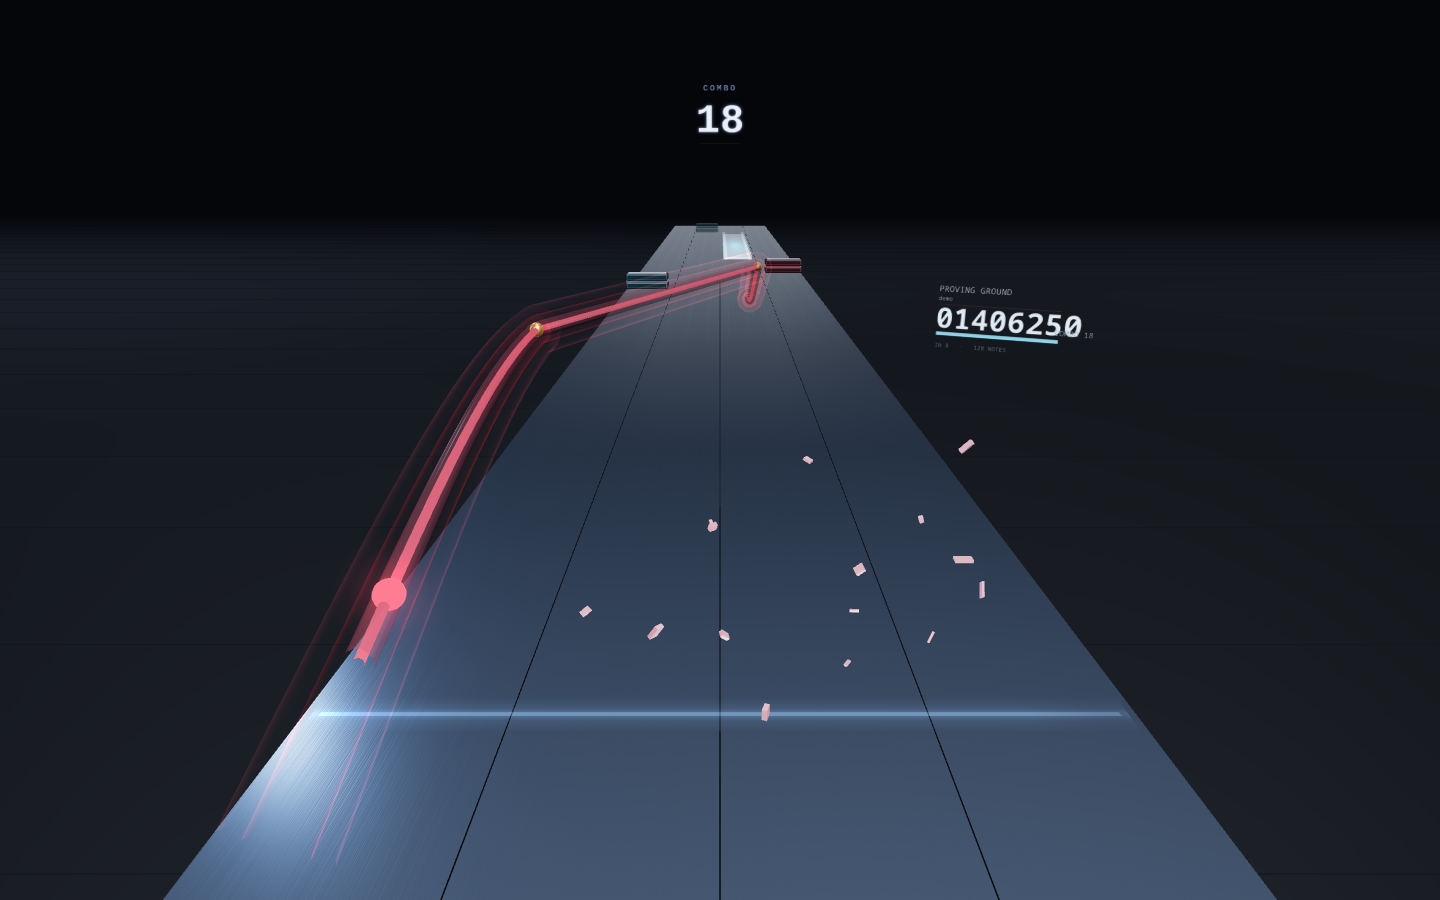
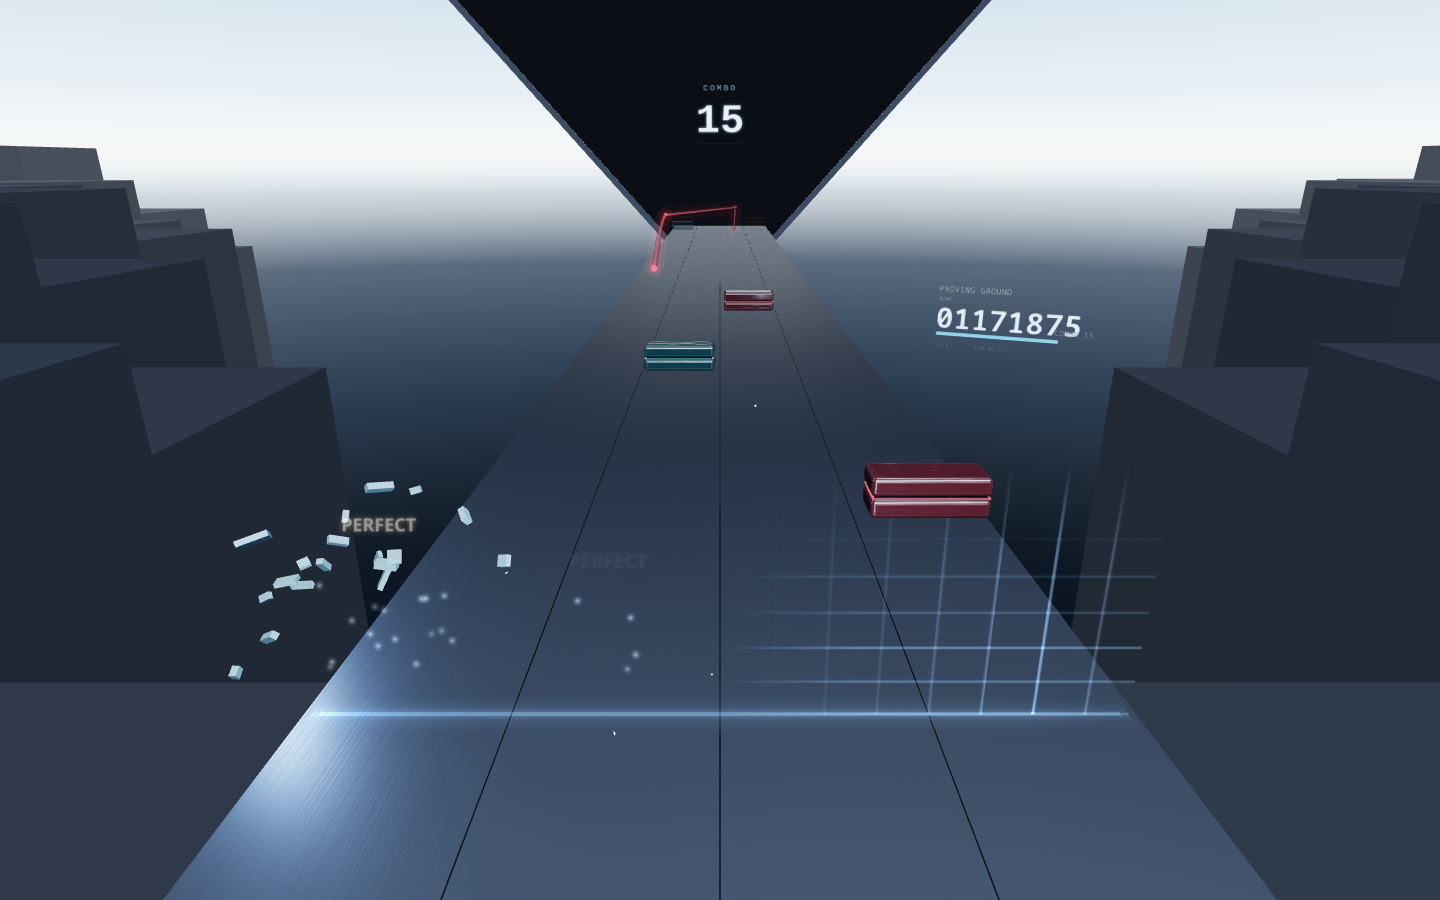
docs(bg): 背景写进 FUTURE，README 换新截图
- FUTURE §0.6 从「待设计」改写为已落地 + 规范草案：没有地面的天空、余光里的台地、
  悬空菱形；glTF 2.0（Blender 内置导出器能带什么 / 带不走什么 / Unity 需要 glTFast）；
  演出走时间线（谱面时间，节点集合封闭）；音频走固定参数通道
- FUTURE §0.7 第 6 项标记完成，剩 scene.json 加载器 / gltf / text / 时间线运行时
- README 截图重拍：游玩 / 主页 / 结算（`?panel=` + `?chrome=0`），文案对齐实际画面；
  顶部导航加 BACKGROUND.md
- prototype/README 文档索引加背景规范；STATUS 记一条 2026-10-25 背景落地

diff --git a/prototype/FUTURE.md b/prototype/FUTURE.md
@@ -169,39 +169,68 @@
 - 不挡 note / arc / 判定线；
 - 命中 / MISS 后立即更新；72fps 不掉。
 
-### 0.6 3D 背景（待设计）
+### 0.6 3D 背景 ✅ 已落地（程序化）+ 规范草案
 
-**状态：还没有设计思路。** 只确定约束和流程，方向本身待定。
+**状态：两个内置预设 `light` / `dark` 已经进游戏和制谱器**；格式（节点 / 时间线 /
+音频参数）是草案，运行时目前只实现了三个 `procedural.*` 节点。
 
-目标：给台面一个真正的空间，让“站在科学仪器前”这件事成立，同时不抢 note、不拖帧。
+实验室：`design/bg-lab/`（Blender）；网页实验台：`prototype/bg-lab.html`；
+格式规范：[`BACKGROUND.md`](BACKGROUND.md)。
 
-约束：
+#### 已经定下来的
 
-- 72fps / Quest 3 优先：不做吃性能的后处理，不引入大纹理 / 高面数；
-- 不能影响判定带、note、arc 的可读性；远近层次要帮“note 在靠近”这件事；
-- 和现有配色一致：石墨 + 浅蓝，lime 只做稀有状态；
-- 要能配合 shift（窗口左右移动）和任意 BPM，不假设固定节奏；
-- 背景是**氛围**，不是玩法：不加新的判定、碰撞、交互。
+- **没有地面**：下半画面是天空球自己暗下去的一段渐变（参考地平线照片），
+  地平线是一条亮带：0.4° 处最亮，往下 6° 内掉暗；
+- **体素台地只在余光里**：正前方切出一个楔形缺口，轨道从崖边直接飞出去；
+- **悬空的菱形巨构**：倒三角 + 上下翻转的镜像，下尖 −8.5°，腰 45.4 m，上尖 64.4°，厚 3 m
+  （只有歪头才有视差）；
+- **全顶点色 + `MeshBasicMaterial`**：5.6k 面（天空球占大头），游戏里 1 个 draw call
+  （实验台多画台面 + note，所以是 3 个）；无灯光 / 雾 / 贴图 / 后处理；
+  天空球 R=320 → 相机 `far` 必须 ≥ 320（现在是 400）；
+- **两个预设 = 两张色表**：切换重建顶点色（< 5 ms），几何一份。
 
-待定（方向全开）：
+#### glTF 2.0：模型 / 材质 / 动画的载体
 
-- 具象还是抽象：机库 / 暗室 / 真空 / 场线 / 测量网格 / 粒子层？
-- 构成方式：天空盒、包围几何、着色器平面、还是几层视差？
-- 是否随 BPM / SV 有极轻微的呼吸或漂移（不能变成第二个 SV）；
-- 远景和台面之间的过渡（雾、地平线、渐隐）怎么处理；
-- 白天 / 夜间 / 不同 tier 是否需要不同背景（暂不假设要）。
+- Blender **内置** glTF 2.0 导出器（`File → Export → glTF 2.0`），不需要插件；
+- 能带：网格（修改器默认求值）、PBR 材质（Principled BSDF → metallic-roughness）、
+  贴图（嵌进 `.glb`）、Action 动画（按名字引用）、骨架 / 蒙皮 / 形态键、相机 / 灯光；
+- **带不走**：程序化节点图、驱动器 / 约束、粒子 —— 必须在 Blender 里烘成贴图或网格；
+- 坐标：glTF 是 Y-up / −Z 前，Blender 导出时自动转轴，和我们现在这套完全一致；
+- Unity 不原生读 glTF（它读 FBX），需要 glTFast / UnityGLTF —— 这是唯一多出来的依赖，
+  但比维护两套导出管线便宜。
 
-流程（按 [`../DESIGN-WORKFLOW.md`](../DESIGN-WORKFLOW.md)）：
+**分工**：作者做的东西（模型、材质、动画）走 `.glb`；
+我们自己的天空 / 台地 / 菱形继续程序化（它们是数学，生成 0 字节）。
 
-1. **在实验室里做**：`design/` 下新建独立样张（例如 `design/bg-lab/`），只跑背景 + 台面 + 假 note，
-   不接游戏状态；一次对比几个方向，用截图评审；
-2. 方向定下来后，再迁进主程序的 `src/scene/backdrop.ts`；
-3. 迁移后必须在 Quest 3 上验收帧率和可读性——实验室好看不等于头显里成立。
+#### 演出（怎么放进去）
 
-验收（迁移后）：
+- **不写脚本语言**：背景 = 一棵场景树 + 一条时间线，节点类型是**封闭集合**（v1 七种：
+  3 个 procedural + `gltf` / `group` / `text` / `image`）；
+- 时间线的**时间基准是谱面时间（ms）**，和 note 同一个时钟，`offset` / BPM 变化自动对齐；
+- 事件都是数据：`fade` / `node.set` / `anim.play` / `cue` / `camera.cut`；
+- 文本演出 = `text` 节点 + 时间线上的 `fade`，不是代码；
+- 为什么不是脚本：跨引擎要写两个解释器、脚本能读时钟 / 随机导致不可复现、
+  脚本没有 UI（作者没法「把节点拖到 12.5 秒」）。
+
+#### 音频反应
+
+- 参数通道固定：`level` / `low` / `mid` / `high` / `beat`（0–1）；
+- 节点声明绑定：`{ "target": "diamond", "path": "rim", "param": "beat", "amount": 1.0 }`；
+- 两端各实现一次分析器（Web Audio `AnalyserNode` / Unity `OnAudioFilterRead`），
+  绑定表由数据驱动，**不回调、不跑作者代码**。
+
+#### 还没做
+
+- `scene.json` 加载器（目前只解析到「用哪个内置预设」）；
+- `gltf` / `text` / `image` 节点与时间线运行时；
+- 音频参数运行时；
+- 演出文本的字体与排版（3D 文本还是 canvas 贴图）；
+- 每个 tier 是否要不同配色（暂时不假设要）。
+
+#### 验收（迁移后，仍然有效）
 
 - Quest 3 稳定 72fps，背景不是瓶颈；
-- 1.35m 距离下 note / arc 仍然最先被看到；
+- 1.35 m 距离下 note / arc 仍然最先被看到；
 - 不同 shift / 流速下背景不穿帮、不闪烁；
 - 关掉背景游戏仍然能玩（背景永远是可选项）。
 
@@ -212,10 +241,12 @@
 3. ~~自由拍号 / 动态小节~~ ✅ 2026-10-23；剩弱起 / 小节内换拍 / 拍号预设菜单；
 4. 难度 tier UI（默认 `IN` 已去掉 ✅ 2026-10-22；主题色已定稿，剩结构化字段与徽章）；
 5. ~~Trace / 引导线~~ ✅ 2026-10-23；剩「在 trace 上放 note」的 3D 吸附、命中优先级说明；
-6. 3D 背景：**先在 `design/` 实验室出方向**，再迁移到 `src/scene/backdrop.ts`。
+6. ~~3D 背景方向 + 迁移~~ ✅ 2026-10-25；剩包内 `scene.json` 加载器、`gltf` / `text` 节点、
+   时间线与音频参数运行时（见 [`BACKGROUND.md`](BACKGROUND.md)）。
 
 timing 已经改过 schema（`numerator` / `denominator`，旧 `beats` 兼容）；trace 是纯增量字段，
-不影响旧谱面。下一件会改规模的是 3D 背景与 tier UI，都先在实验室出样张。
+不影响旧谱面。背景已经落地并在包格式里留了位置（`background/scene.json`）；
+下一件会改规模的是 tier UI（先在实验室出样张），以及背景的 glTF / 时间线运行时。
 
 ---
 

diff --git a/prototype/STATUS.md b/prototype/STATUS.md
@@ -1,11 +1,24 @@
 # prototype / STATUS
 
-> 更新：2026-10-23 ｜ 版本：**0.4.0** ｜ 阶段：**Phase 1 完成；手感调参基本合格**
+> 更新：2026-10-25 ｜ 版本：**0.4.0+背景** ｜ 阶段：**Phase 1 完成；手感调参基本合格**
 > 当前个人进度：**Infinity Heaven 初谱制作中**（用户估计约 1 周）；期间只做小修。
 > 设计真相：[`../parallax-idea.md`](../parallax-idea.md) ｜ Phase 1 旧协议：[`../agent_old.md`](../agent_old.md)（**OLD / 已归档**） ｜ 后续架构 / 近期玩法计划：[`FUTURE.md`](FUTURE.md) §0
 > 完整逐轮历史（55 节 / 90KB）在 git：`git show ad37349:prototype/STATUS.md > /tmp/parallax-status-full.md`。本文件是 2026-10-20 的压缩版。
 
 ---
+
+### 2026-10-25 · 3D 背景落地
+
+- `design/bg-lab/` 出方向（Blender）：没有地面、体素台地只在余光里、悬空的菱形巨构；
+  实验室截图 / `.blend` / 生成脚本都在这个目录；
+- 迁进 `src/scene/background/`：三个程序化生成器 + 两个预设（light / dark），
+  5.6k 面 / 3 draw calls，无灯光 / 雾 / 贴图；相机 `far` 80 → 400（天空球 R=320）；
+- 游戏默认 light（`?bg=dark` 切），切谱时按包内 `background` 重建；
+- 设置页新增 `Background`；制谱器 `VIEW → BG`，导出写 `background/scene.json`；
+- 独立实验台 `bg-lab.html`（`?pal=dark&pitch=27`）；
+- 规范草案 [`BACKGROUND.md`](BACKGROUND.md)：节点集合封闭、glTF 2.0 承载模型 / 动画、
+  演出走时间线、音频走固定参数通道；
+- **未做**：`scene.json` 加载器、`gltf` / `text` 节点、时间线 / 音频参数运行时。
 
 ## 0. 现在看这里
 

diff --git a/prototype/README.md b/prototype/README.md
@@ -3,7 +3,7 @@
 Phase 1 的 WebXR 原型。**v0.4.0 / Step 0–5 已完成并验收**：游戏可玩，桌面制谱器可用；Quest 3 实测 72Hz+。
 
 > 项目总览：[`../README.md`](../README.md) ｜ 谱面格式：[`CHART.md`](CHART.md) ｜
-> 制谱器：[`EDITOR.md`](EDITOR.md) ｜ 谱面包：[`PACKAGE.md`](PACKAGE.md) ｜ 迭代记录：[`STATUS.md`](STATUS.md) ｜ UI 待办：[`UI-BACKLOG.md`](UI-BACKLOG.md) ｜ 无线上头显：[`DEPLOY.md`](DEPLOY.md) ｜ 设计工作流：[`../DESIGN-WORKFLOW.md`](../DESIGN-WORKFLOW.md)
+> 制谱器：[`EDITOR.md`](EDITOR.md) ｜ 谱面包：[`PACKAGE.md`](PACKAGE.md) ｜ 背景规范：[`BACKGROUND.md`](BACKGROUND.md) ｜ 迭代记录：[`STATUS.md`](STATUS.md) ｜ UI 待办：[`UI-BACKLOG.md`](UI-BACKLOG.md) ｜ 无线上头显：[`DEPLOY.md`](DEPLOY.md) ｜ 设计工作流：[`../DESIGN-WORKFLOW.md`](../DESIGN-WORKFLOW.md)
 
 设计真相在仓库根的 `parallax-idea.md`；Phase 1 旧协议在 `agent_old.md`（已归档，不再遵循）。这里只放能跑的东西。
 
